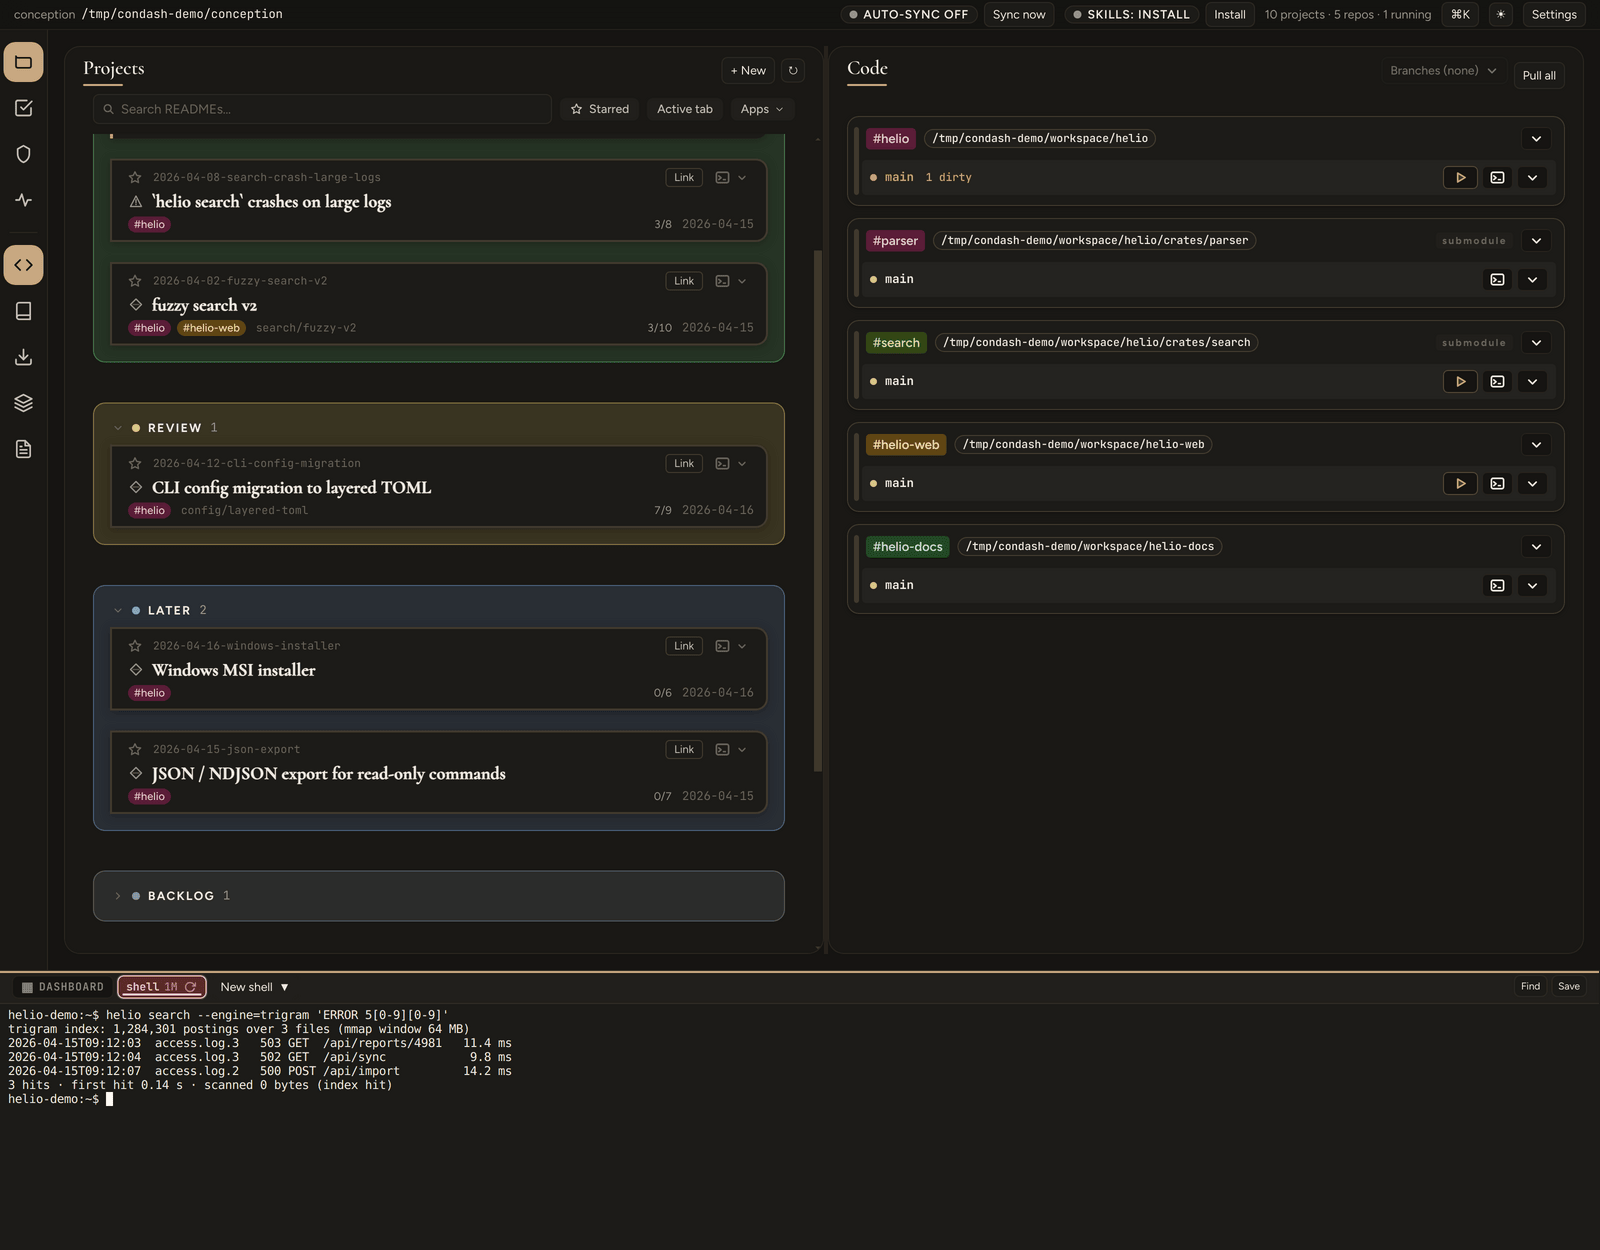
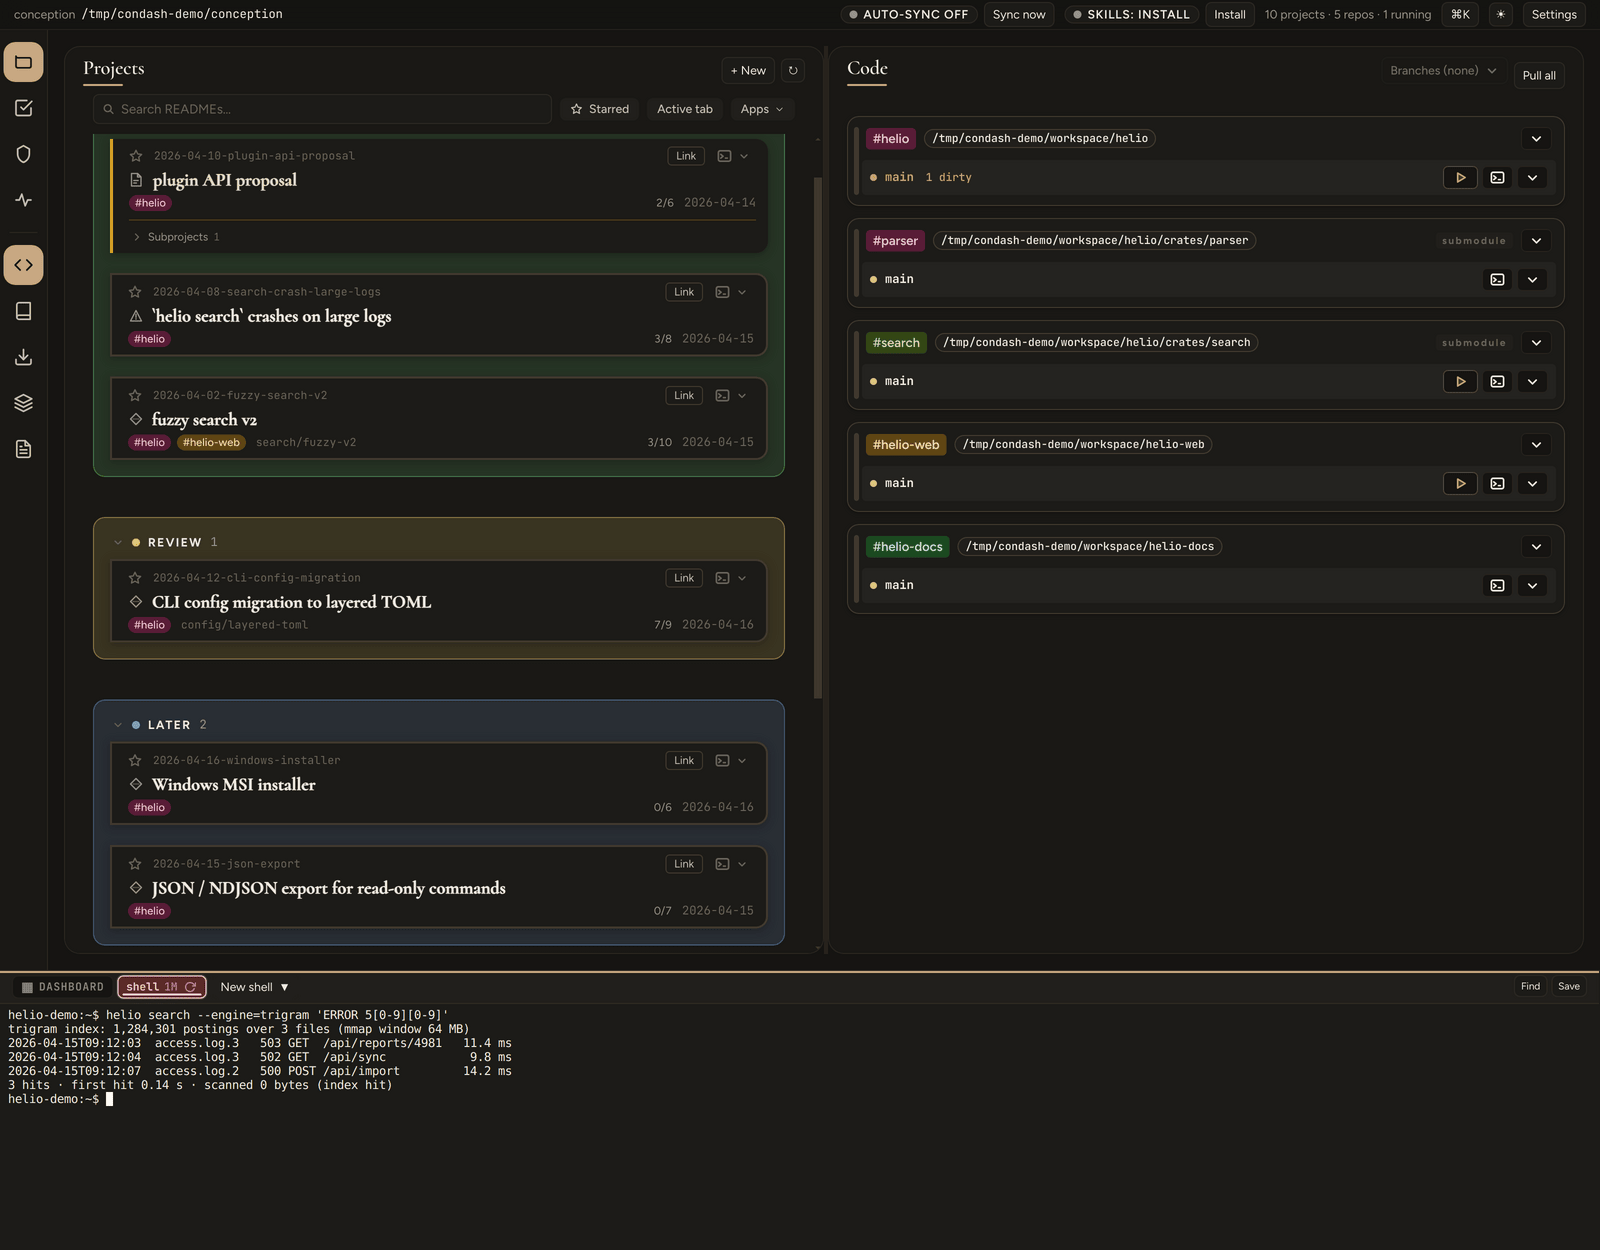
docs: settle the stack fold on every capture, not at hand-picked sites
Round 2 found that the previous commit shipped the defect it was fixing. alignStackFold wrote .projects-stack's scrollTop and nothing restored it, and pane-scroll-memory persists that offset across unmounts — so item-fuzzy-search and item-document-with-pdf, which frame the stack but were not on my list, inherited it. The first published a ~50px band of the unknown-status lane's top edge on its bottom border; the second lost its closing border. Verified in the committed pixels, and the previous commit's subject already claimed to cover every shot that frames the stack.

The list was the defect, so the list is gone. settleStackFold now runs inside shoot(), so every full-window capture is covered and a new one cannot forget it; it no-ops when the stack is not mounted. It resets scrollTop to 0 before aligning, which makes each capture independent of whatever the sequence did earlier — the leak class, not just this instance. Assertion moved to the file-level checks alongside missing/undersized/wrongSize, because shoot() swallows its own errors by design, and a foldChecks counter fails the run if the probe ever stops matching rather than passing by default.
[…]

Changed region(s): [[0.0312, 0.1248, 0.5312, 0.8112], [0.5, 0.156, 0.5312, 0.1872]]

diff --git a/tests/screenshots.spec.ts b/tests/screenshots.spec.ts
@@ -34,9 +34,10 @@
  * that reads as a rendering glitch rather than as scrolled content. 1250 lands
  * the fold in the 40px of bare background between `done` and the trailing `?`
  * lane, so the whole canonical status stack renders with nothing bisected.
- * `requireNoBisectedLane` below turns that from a lucky number into a checked
- * invariant — change the fixture and the capture fails loudly instead of
- * quietly shipping another sliver. BOTH halves of that are
+ * `settleStackFold` below turns that from a lucky number into a checked
+ * invariant — it runs on every capture, places the stack's scroll offset
+ * deterministically, and records any lane a clip edge has sliced to a hairline
+ * for the file-level assertions to fail on. BOTH halves of that are
  * load-bearing and neither works alone: Electron's `--force-device-scale-factor`
  * makes the compositor surface 2×, and the CDP device-metrics override makes the
  * page agree (`devicePixelRatio === 2`) so Playwright captures those real pixels.
@@ -444,123 +445,133 @@ async function requireContent(
   }
 }
 
-/** A lane cut this thin by the stack's fold reads as a rendering artefact
- *  rather than as content continuing below. */
+/** A lane cut this thin by a clip edge of the Projects stack reads as a
+ *  rendering artefact rather than as content continuing past it. */
 const MIN_VISIBLE_LANE_PX = 60;
 
 /**
- * Fail when the Projects stack's fold slices a status lane to a hairline.
+ * Every fold offence seen during a sweep, and how many times the stack was
+ * actually inspected. Both are asserted at the end of the test rather than at
+ * the capture site, because `shoot()` swallows its own errors by design.
+ *
+ * The counter is the guard against the probe silently ceasing to run: rename
+ * `.projects-stack` or wrap the lanes and `foldChecks` falls to zero, which
+ * fails as loudly as an offence would.
+ */
+const foldOffences: string[] = [];
+let foldChecks = 0;
+
+/**
+ * Place the Projects stack's scroll offset, then report any lane a clip edge
+ * has sliced to a hairline.
  *
  * The stack overflows on this fixture, so *a* fold is expected, and a lane cut
  * through its body reads correctly as scrolled content. What reads as a defect
- * is a sliver — a few pixels of a lane's rounded top edge and tint sitting on
- * the bottom border of a published screenshot. So a lane must be fully visible,
- * fully past the fold, or cut by enough to be plainly content continuing. Both
- * ends count: a lane whose closing border is sliced off is the mirror image of
- * the same defect, and that border exists precisely so the panel "ends
- * somewhere definite" (`projects-pane.css`).
+ * is a sliver — a few pixels of a lane's rounded edge and tint pinned against a
+ * clip edge of a published screenshot. The contract is therefore: **a lane is
+ * whole, absent, or cut with at least `MIN_VISIBLE_LANE_PX` on both sides of
+ * the cut.** For a lane shorter than twice that — every collapsed lane — the
+ * contract reduces to whole-or-absent, which is deliberate: there is no amount
+ * of a 51px panel that reads as "continues below".
  *
- * Run at every capture that frames the Projects stack. An earlier version ran
- * only on `dashboard-overview`, on the reasoning that an already-scrolled pane
- * reads fine cut at either end — which was wrong, and four published PNGs
- * (`terminal-*`, `spawn-dropdown-*`) carried a 16px band of a lane top to prove
- * it. Where the scroll offset is not itself the subject, call `alignStackFold()`
- * first so the fold is placed rather than inherited.
+ * Three cases, not four. At the bottom clip edge both a slivered lane top and a
+ * sliced-off closing border count — that border exists precisely so the panel
+ * "ends somewhere definite" (`projects-pane.css`). At the top clip edge only a
+ * slivered lane *bottom* counts: a stray band of the previous lane's tail reads
+ * as an artefact, whereas a lane whose opening border is above the clip edge is
+ * simply what scrolled content looks like, and treating it as a defect makes
+ * the constraint unsatisfiable — measured, no scroll offset then clears the
+ * terminal shot at all.
+ *
+ * **Scroll is reset to 0 first, always.** The offset is otherwise inherited
+ * from whatever the capture sequence happened to do earlier, which made shots
+ * depend on each other's order: an earlier version of this routine scrolled the
+ * stack for `terminal` and the offset leaked into `item-fuzzy-search` and
+ * `item-document-with-pdf`, publishing the very sliver it had just removed from
+ * `terminal`. Resetting makes every capture independent of the ones before it.
  */
-async function requireNoBisectedLane(page: Page, slug: string): Promise<void> {
+async function settleStackFold(page: Page, label: string): Promise<void> {
   const result = await page.evaluate((minVisible) => {
     const stack = document.querySelector('.projects-stack');
-    if (!stack) return { found: false, lanes: 0, offender: null };
-    // `clientTop` bridges the border-box origin of `getBoundingClientRect` and
-    // the padding-box `clientHeight`: zero today, non-zero the moment the stack
-    // gains a border.
-    const rect = stack.getBoundingClientRect();
-    const fold = rect.top + stack.clientTop + stack.clientHeight;
+    if (!stack) return { present: false, offence: null as string | null };
     const lanes = Array.from(stack.querySelectorAll(':scope > .group-block'));
-    for (const lane of lanes) {
+    if (!lanes.length) return { present: false, offence: null as string | null };
+
+    const view = stack.clientHeight;
+    const maxScroll = Math.max(0, stack.scrollHeight - view);
+    // Content-space geometry, derived from rects relative to the stack rather
+    // than from `offsetTop` — that is measured against `offsetParent`, which is
+    // only the stack when the stack happens to be positioned.
+    const geom = (lane: Element) => {
+      const stackRect = stack.getBoundingClientRect();
       const box = lane.getBoundingClientRect();
-      const cap = Math.min(minVisible, box.height);
-      const visible = Math.min(box.bottom, fold) - box.top;
-      const clipped = box.bottom - fold;
-      const edge =
-        visible >= 1 && visible < cap ? 'top' : clipped >= 1 && clipped < cap ? 'bottom' : null;
-      if (edge) {
+      const top = box.top - stackRect.top - stack.clientTop + stack.scrollTop;
+      return { top, height: box.height, bottom: top + box.height };
+    };
+    const offenceAt = (scrollTop: number) => {
+      const viewTop = scrollTop;
+      const viewBottom = scrollTop + view;
+      for (const lane of lanes) {
+        const g = geom(lane);
+        const cap = Math.min(minVisible, g.height);
+        const cases = [
+          { edge: 'bottom-clip, top of lane', px: viewBottom - g.top },
+          { edge: 'bottom-clip, closing border', px: g.bottom - viewBottom },
+          { edge: 'top-clip, bottom of lane', px: g.bottom - viewTop },
+        ];
+        for (const c of cases) {
+          if (c.px >= 1 && c.px < cap) {
+            return {
+              status: lane.getAttribute('data-status'),
+              height: Math.round(g.height),
+              edge: c.edge,
+              px: Math.round(c.px),
+              laneTop: g.top,
+              laneBottom: g.bottom,
+            };
+          }
+        }
+      }
+      return null;
+    };
+
+    stack.scrollTop = 0;
+    for (let pass = 0; pass < 6; pass += 1) {
+      const hit = offenceAt(stack.scrollTop);
+      if (!hit) return { present: true, offence: null as string | null };
+      // Move the offending edge clear in the direction that costs least: pull
+      // the fold above a slivered lane top, push it past a sliced closing
+      // border. The earlier single-strategy version always pulled back, which
+      // for a bottom-edge hit scrolled by the lane's whole height.
+      const target = hit.edge.startsWith('bottom-clip')
+        ? hit.edge.endsWith('top of lane')
+          ? hit.laneTop - 8 - view
+          : hit.laneBottom + 8 - view
+        : hit.laneBottom + 8;
+      const next = Math.min(maxScroll, Math.max(0, target));
+      if (Math.abs(next - stack.scrollTop) < 1) {
         return {
-          found: true,
-          lanes: lanes.length,
-          offender: {
-            status: lane.getAttribute('data-status'),
-            visible: Math.round(edge === 'top' ? visible : box.height - clipped),
-            height: Math.round(box.height),
-            edge,
-          },
+          present: true,
+          offence:
+            `${hit.px}px of the ${hit.height}px '${hit.status}' lane at the ${hit.edge}; ` +
+            `no scroll offset in [0, ${Math.round(maxScroll)}] clears it`,
         };
       }
+      stack.scrollTop = next;
     }
-    return { found: true, lanes: lanes.length, offender: null };
-  }, MIN_VISIBLE_LANE_PX);
-
-  // A probe that silently stops running is worse than no probe: fail on a
-  // missing stack or an empty lane list rather than passing by default.
-  expect(result.found, `${slug}: .projects-stack not found — the fold probe never ran`).toBe(true);
-  expect(
-    result.lanes,
-    `${slug}: no .group-block lanes under .projects-stack — the fold probe never ran`,
-  ).toBeGreaterThan(0);
-
-  const o = result.offender;
-  expect(
-    o,
-    o
-      ? `${slug}: the fold leaves ${o.visible}px of the ${o.height}px '${o.status}' lane ` +
-          `(${o.edge} edge) — a sliver reads as a rendering glitch. Call alignStackFold() before ` +
-          `the capture, or adjust VIEWPORT.height so the fold lands between lanes.`
-      : '',
-  ).toBeNull();
-}
-
-/**
- * Nudge the Projects stack so its fold lands in the bare background between two
- * lanes instead of through one.
- *
- * For captures whose subject is elsewhere (the terminal band, a dropdown) the
- * stack's scroll offset is incidental — inherited from whatever the sequence did
- * earlier — so placing it deliberately is both safe and more reproducible than
- * leaving it to chance. Not used for `dashboard-overview`, which must present the
- * pane at `scrollTop: 0`; there the viewport height does this job.
- */
-async function alignStackFold(page: Page): Promise<void> {
-  await page.evaluate((minVisible) => {
-    const stack = document.querySelector('.projects-stack');
-    if (!stack) return;
-    const lanes = Array.from(stack.querySelectorAll(':scope > .group-block'));
-    if (!lanes.length) return;
-    const view = stack.clientHeight;
-    // Lane positions are derived from rects relative to the stack, not from
-    // `offsetTop`: that is measured against `offsetParent`, which is only the
-    // stack if the stack happens to be positioned — mixing it with `scrollTop`
-    // silently offsets every calculation.
-    const contentTop = (lane: Element): number => {
-      const stackRect = stack.getBoundingClientRect();
-      return lane.getBoundingClientRect().top - stackRect.top - stack.clientTop + stack.scrollTop;
+    const left = offenceAt(stack.scrollTop);
+    return {
+      present: true,
+      offence: left
+        ? `${left.px}px of the ${left.height}px '${left.status}' lane at the ${left.edge}; ` +
+          `still offending after 6 passes`
+        : null,
     };
-    for (let pass = 0; pass < 4; pass += 1) {
-      const foldContent = stack.scrollTop + view;
-      const hit = lanes.find((lane) => {
-        const top = contentTop(lane);
-        const height = lane.getBoundingClientRect().height;
-        const cap = Math.min(minVisible, height);
-        const visible = Math.min(top + height, foldContent) - top;
-        const clipped = top + height - foldContent;
-        return (visible >= 1 && visible < cap) || (clipped >= 1 && clipped < cap);
-      });
-      if (!hit) return;
-      // Pull the fold back above the offending lane's top edge, into the gap.
-      const target = Math.max(0, contentTop(hit) - 8 - view);
-      if (Math.abs(target - stack.scrollTop) < 1) return;
-      stack.scrollTop = target;
-    }
   }, MIN_VISIBLE_LANE_PX);
+
+  if (!result.present) return;
+  foldChecks += 1;
+  if (result.offence) foldOffences.push(`${label}: ${result.offence}`);
 }
 
 /**
@@ -589,6 +600,10 @@ async function readTerminalText(page: Page): Promise<string> {
 async function shoot(page: Page, theme: Theme, name: string): Promise<void> {
   const dir = join(outRoot, theme);
   await mkdir(dir, { recursive: true });
+  // Every full-window capture, not a hand-picked list: the Projects stack is on
+  // screen for nine of them and the set is easy to mis-enumerate. No-ops when
+  // the stack is not mounted.
+  await settleStackFold(page, `${theme}/${name}`);
   try {
     await page.screenshot({
       path: join(dir, `${name}.png`),
@@ -721,7 +736,6 @@ async function captureForTheme(theme: Theme): Promise<void> {
       items: '.repo-row',
       minItems: 5,
     });
-    await requireNoBisectedLane(page, 'dashboard-overview');
     await shoot(page, theme, 'dashboard-overview');
 
     // 2. activity-rail — a narrow clip of the rail itself. It is the app's
@@ -903,8 +917,6 @@ async function captureForTheme(theme: Theme): Promise<void> {
       );
       expect(terminalText, 'terminal: the xterm buffer has no command output').toContain('3 hits');
     }
-    await alignStackFold(page);
-    await requireNoBisectedLane(page, 'terminal');
     await shoot(page, theme, 'terminal');
 
     // 10. spawn-dropdown — the same tab strip with the launcher menu open, which
@@ -926,8 +938,6 @@ async function captureForTheme(theme: Theme): Promise<void> {
         items: 'li',
         minItems: 3,
       });
-      await alignStackFold(page);
-      await requireNoBisectedLane(page, 'spawn-dropdown');
       await shoot(page, theme, 'spawn-dropdown');
       await page.keyboard.press('Escape');
       await settle(page);
@@ -1110,6 +1120,16 @@ test('capture every documentation screenshot in light + dark', async () => {
       }
     }
   }
+  // The stack is framed by nine of the full-window shots; zero inspections
+  // means the probe stopped matching, not that everything was clean.
+  expect(
+    foldChecks,
+    'the Projects-stack fold probe never ran — did .projects-stack move?',
+  ).toBeGreaterThan(0);
+  expect(
+    foldOffences,
+    `a clip edge slices a status lane to a hairline (reads as a rendering glitch):\n  ${foldOffences.join('\n  ')}`,
+  ).toEqual([]);
   expect(missing, `missing screenshots: ${missing.join(', ')}`).toEqual([]);
   expect(undersized, `implausibly small screenshots: ${undersized.join(', ')}`).toEqual([]);
   expect(wrongSize, `wrong capture size: ${wrongSize.join(', ')}`).toEqual([]);
